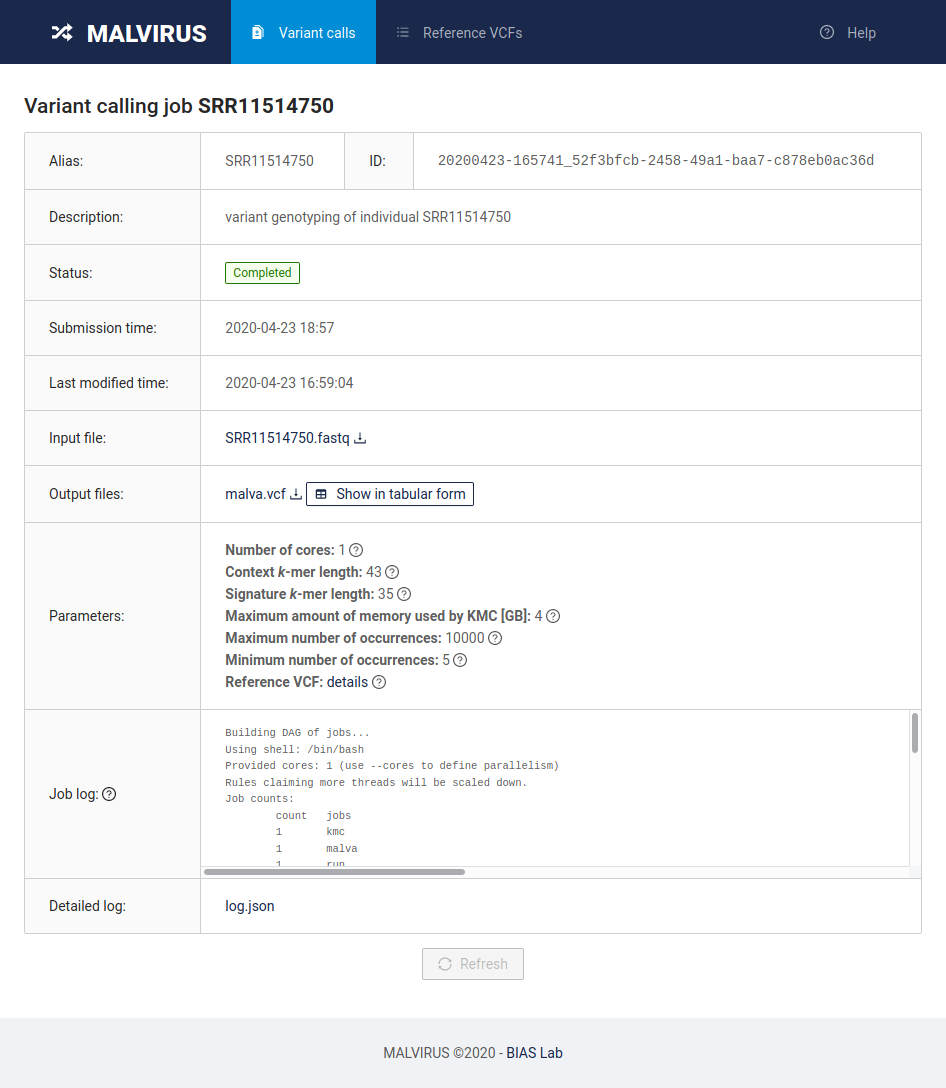
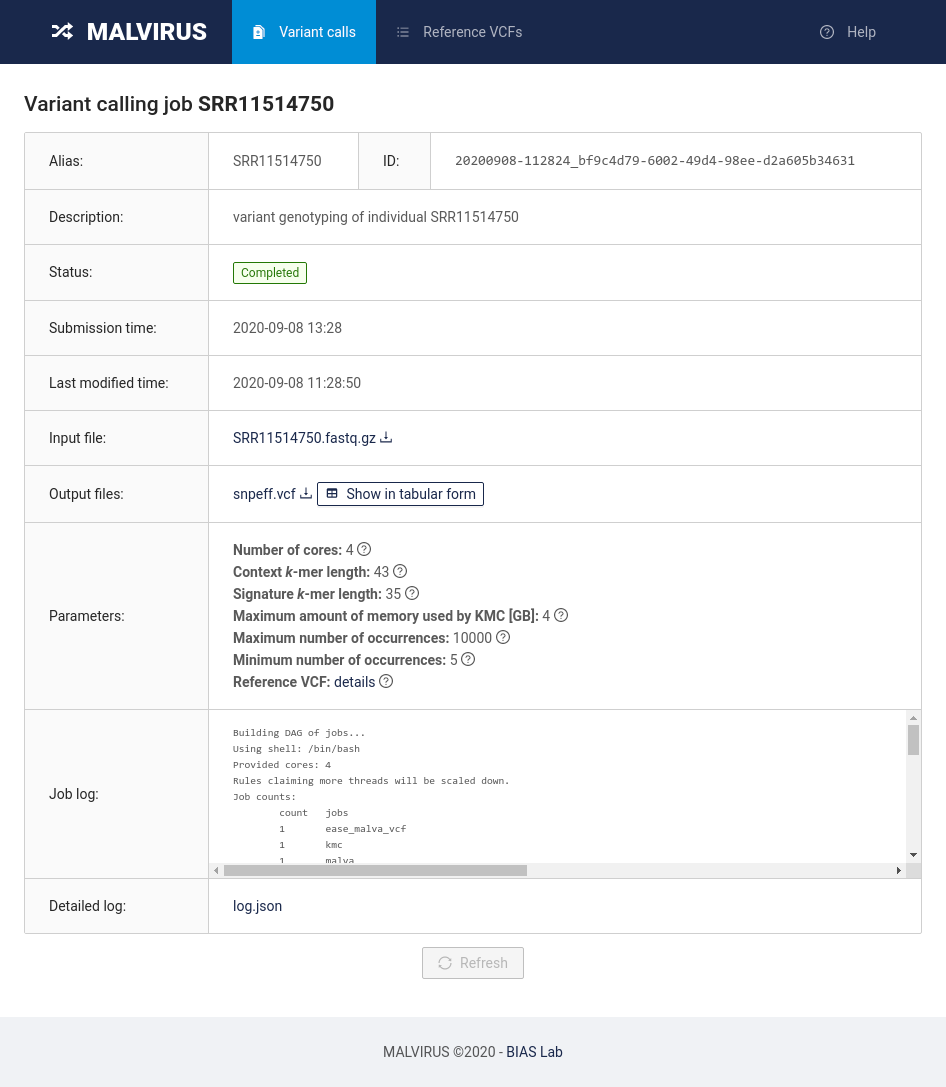
GHP: update website pages with new features

diff --git a/USAGE.md b/USAGE.md
@@ -22,10 +22,13 @@ Note that, the reference genome must be in FASTA format, whereas the set of geno
 
 To build the catalog, first head to the _Reference VCFs_ tab which is at the top of the MALVIRUS homepage and click on the _Build a reference VCF from genomes_ button that will redirect you to a submission form.
 First, fill in the _Alias_ and _Description_ fields as you please (Alias will be the name of the catalog so use some meaningful term).
-Then, upload your reference genome sequence in FASTA format in the _Reference genomic sequence_ field and the multi-FASTA of the set of genomic sequences in the _Population genomic sequences_ field.
+Then, in the _Reference genome_ field, you can either select a reference genome from the ones provided by MALVIRUS (_preloaded references_) or you can select _Custom reference_ and then upload your reference genome sequence in FASTA format in the _Reference genomic sequence_ field that will subsequently appear.
 
 If available, you can also upload the annotation of the reference genome in either GTF of GFF format in the _Gene Annotation_ field.
 If you upload this information, then variant calls that will use this catalog will be able to annotate variants using gene names.
+If you use a preloaded reference, then variant calls will be also annotated using [SnpEff](https://pcingola.github.io/SnpEff/).
+
+Finally, upload the multi-FASTA of the set of genomic sequences in the _Population genomic sequences_ field.
 
 Once every field is filled with the correct information, click on the _Submit_ button at the bottom of the page and the catalog will be built.
 After clicking on the submit button, you will be presented with the status page of the job; click the _Refresh_ button at the bottom to refresh the information in it.
@@ -33,20 +36,17 @@ After clicking on the submit button, you will be presented with the status page 
 The job will align the genomic sequences of the population to the reference genome using [mafft](https://mafft.cbrc.jp/alignment/software/) and will convert the MSA output of mafft to a VCF using [snp-sites](https://github.com/sanger-pathogens/snp-sites).
 This job should require less than 10 minutes to complete.
 
-Clicking again on the _Reference VCFs_ tab at the top will present the list of cataloges and the status of the job creating ig.
+Clicking again on the _Reference VCFs_ tab at the top will present the list of catalogs and the status of the job creating them.
 Once the status is <span style="color:#237804">Completed</span> the catalog can be used to call variants.
 
 ### Uploading the catalog using a precomputed VCF
 
-If the set of known variants is already available as a VCF, you can avoid computing the catalog and upload the reference genome and the VCF instead.
+If the set of known variants is already available as a VCF file, you can avoid computing the catalog and you can directly upload the reference genome and the VCF instead instead.
 
 To do so, head to the _Reference VCFs_ tab on top of the MALVIRUS website and click on the _Upload a new reference VCF_ button that will redirect you to the upload form.
 
 Fill in the _Alias_ and _Description_ fields as you please.
-Upload the reference genome in the _Reference genomic sequence_ field and the VCF file of the variants in the _Reference VCF_ field.
-
-If available, you can also upload the annotation of the reference genome in either GTF or GFF format in the _Gene Annotation_ field.
-If you upload this information, then variant calls that will use this catalog will be able to tag variants using gene names.
+Fill the _reference genome_ as explained in the section above and, finally, upload the VCF file of the variants in the _Reference VCF_ field.
 
 Finally, click on the _Submit_ button on the bottom to upload and create the new catalog.
 
@@ -67,15 +67,15 @@ To do so, head to the _Variant calls_ tab on the top of the homepage of MALVIRUS
 
 You will be presented with a submission form.
 First, set the _Alias_ and _Description_ fields to something meaningful. _Alias_ will be the name of the job you will submit.
-Then, upload the sequencing data in either FASTA of FASTQ format in the _Sample sequences_ field and chose a catalog to use while genotyping the data in the _Reference VCF_ field.
+Then, upload the sequencing data in either FASTA or FASTQ format (gzipped, possibly) in the _Sample sequences_ field and choose a catalog to use while genotyping the data in the _Reference VCF_ field.
 
 If no reference VCF is available, MALVIRUS asks you to first create a variant catalog; head to the [Creating the variant catalog](#creating-the-variant-catalog) section of this document and follow the instructions.
 
 After uploading the sample and selecting the catalog you are able to submit the job by clicking the _Submit_ button.
 
-Note that you can tune the parameters of the analysis by setting them in the _Advanced paramters_ box; the default parameters of the tool are tuned to work with high-coverage virological data (coverage higher than 100x).
+Note that you can tune the parameters of the analysis by setting them in the _Advanced parameters_ box; the default parameters of the tool are tuned to work with high-coverage virological data (coverage higher than 100x).
 
-This job will first extract the k-mers in the sample using [KMC](http://sun.aei.polsl.pl/REFRESH/index.php?page=projects&project=kmc&subpage=about) and will then use the k-mers call the variants using [MALVA](https://github.com/algolab/malva).
+This job will first extract the k-mers in the sample using [KMC](http://sun.aei.polsl.pl/kmc) and will then use the k-mers call the variants using [MALVA](https://github.com/algolab/malva).
 
 It is possible to track the status of the job by heading to the _Variant calls_ tab.
 Look for your job in the table and then look at the _Status_ column.
@@ -90,7 +90,8 @@ You can access it by heading to the _Variant calls_ tab and searching your job i
 Click on the alias of the job you want to analyze and you'll be presented with a table reporting various information of the job.
 
 If the status is <span style="color:#237804">Completed</span>, then you can access and download the output VCF that will be in the _Output files_ row.
-By clicking the name of the output file (usually `malva.vcf`) you'll download the vcf, whereas by clicking on the _Show in tabular form_ button you'll be redirected to another page that describes the VCF and that highlights the differences between the reference genome and the strain under analysis.
+By clicking the name of the output file (usually `malva.vcf`) you'll download the VCF file, whereas by clicking on the _Show in tabular form_ button you'll be redirected to another page that describes the VCF and that highlights the differences between the reference genome and the strain under analysis.
 In this page, by default only the wild-type variants detected in the strain are shown, to see all the variants uncheck the _Show only loci with alt.~allele_ filter.
+If the variant catalog was built on a preloaded reference, then you can also view the (summarized) effect of each variant in the _Effect_ column. The full effects predicted by SnpEff for that variant can be accessed by clicking on the summarized effect.
 Moreover, last column is color coded based on the quality of the call.
 For convenience, at the top of this page you can find two links to download the output in VCF or as a spreadsheet.

diff --git a/TUTORIAL.md b/TUTORIAL.md
@@ -10,6 +10,8 @@ permalink: /TUTORIAL
 2. [Download the data](#download-the-data)
 3. [Create a variant catalog from assemblies](#create-a-variant-catalog-from-assemblies)
 4. [Genotype calling](#genotype-calling)
+5. [Accessing the results](#accessing-the-results)
+6. [Annotating variant effects with SnpEff](#annotating-variant-effects-with-snpeff)
 
 ## Introduction
 
@@ -31,6 +33,7 @@ The data include the complete genome of SARS-CoV-2 isolate Wuhan-Hu-1 (accession
 
 ## Create a variant catalog from assemblies
 
+**Notice:** _this step is for demonstration purposes only, as a SARS-CoV-2 catalog computed from GenBank assemblies is preloaded with MALVIRUS._
 First we will create a catalog of known variants induced by the assemblies we downloaded.
 
 Head to the "Reference VCF" tab and click on the "Build a new Reference VCF from genomes" button.
@@ -47,7 +50,8 @@ Fill in the information as follows:
 
 * **Alias**: SARS-CoV-2 reference from NCBI v1
 * **Description**: Sequences downloaded on April 23rd, 2020
-* **Reference**: click the _Select file_ button and select the `reference.fasta` file in the git repository we cloned previously
+* **Reference genome**: select the _Custom reference_ item
+* **Reference genomic sequence**: click the _Select file_ button and select the `reference.fasta` file in the git repository we cloned previously
 * **Gene annotation**: click on the _Select file_ button and select the `sars-cov-2.gff` file in the git repository we cloned previously
 * **Population genomic sequences**: click on the _Select file button_ and select the `seqs.fasta` file in the git repository we cloned previously
 * **Number of cores**: set this value based on how many cores are available on your machine; setting this value to 4 is usually enough.
@@ -126,3 +130,24 @@ By default the table in this view will only show the variants genotyped as wild 
 </p>
 
 Finally, you can download the data both as VCF and in Excel format by clicking the links at the top of the page.
+## Annotating variant effects with SnpEff
+
+MALVIRUS is able to annotate variant effects using SnpEff **if a preloaded reference is used**.
+So, you must re-create the variant catalog as described in [Create a variant catalog from assemblies](#create-a-variant-catalog-from-assemblies) but selecting the item "NC\_045512.2" in the _Reference genome_ box instead of "Custom reference" (beware, the _Alias_ must be different).
+This also saves us from uploading the reference genomic sequence in FASTA format and the related gene annotation.
+
+Then, if you genotype the individual SRR11514750 as described [above](#genotype-calling) but selecting the newly created catalog you will obtain a table similar to the following one.
+
+<p align="center">
+<a href="geno_wild_snpeff.png" target="_blank">
+<img src="geno_wild_snpeff.png" width="500px"/>
+</a>
+</p>
+
+By clicking on a variant effect, you'll see the full output of SnpEff for that variant in a tabular form.
+
+<p align="center">
+<a href="snpeff_annot.png" target="_blank">
+<img src="snpeff_annot.png" width="500px"/>
+</a>
+</p>

diff --git a/index.md b/index.md
@@ -8,10 +8,10 @@ permalink: /
 MALVIRUS is a fast and accurate tool for genotyping haploid individuals that does not require to assemble the read nor mapping them to a reference genome.
 It is tailored to work with virological data (including but not limited to SARS-CoV-2) and can genotype an individual directly from sequencing data in minutes.
 
-{% include gallery.html files="/geno_submission_form.png+/geno_table.png+/geno_results.png+/geno_wild.png" %}
+{% include gallery.html files="/geno_submission_form.png+/geno_table.png+/geno_results.png+/geno_wild_snpeff.png" %}
 
 MALVIRUS is divided into two logically distinct steps: the creation of a variant catalog from a set of assemblies and the genotype calling.
-The first step is based on mafft [[1]](#mafft7) and snp-sites [[2]](#snp-sites), whereas the second step is based on KMC [[3]](#kmc) and MALVA [[4]](#malva).
+The first step is based on mafft [[1]](#mafft7) and snp-sites [[2]](#snp-sites), whereas the second step is based on KMC [[3]](#kmc), MALVA [[4]](#malva), and SnpEff [[5]](#snpeff).
 
 The variant catalog can be built once and reused for genotyping multiple individuals.
 
@@ -39,3 +39,5 @@ bioRxiv 2020.05.05.076992; doi: [10.1101/2020.05.05.076992](https://doi.org/10.1
 <a id="kmc">[3]</a> Kokot, Marek, Maciej Dlugosz, and Sebastian Deorowicz. 2017. “KMC 3: counting and manipulating k-mer statistics.” Bioinformatics 33 (17): 2759–61. doi:[10.1093/bioinformatics/btx304](https://doi.org/10.1093/bioinformatics/btx304).
 
 <a id="malva">[4]</a> Denti, Luca, Marco Previtali, Giulia Bernardini, Alexander Schönhuth, and Paola Bonizzoni. 2019. “MALVA: Genotyping by Mapping-Free Allele Detection of Known Variants.” iScience 18: 20–27. doi:[10.1016/j.isci.2019.07.011](https://doi.org/10.1016/j.isci.2019.07.011).
+
+<a id="snpeff">[5]</a> Pablo Cingolani _et al_. 2012. “A program for annotating and predicting the effects of single nucleotide polymorphisms, SnpEff: SNPs in the genome of Drosophila melanogaster strain w1118; iso-2; iso-3” Fly 6(2): 80-92. doi:[10.4161/fly.19695](https://doi.org/10.4161/fly.19695).
